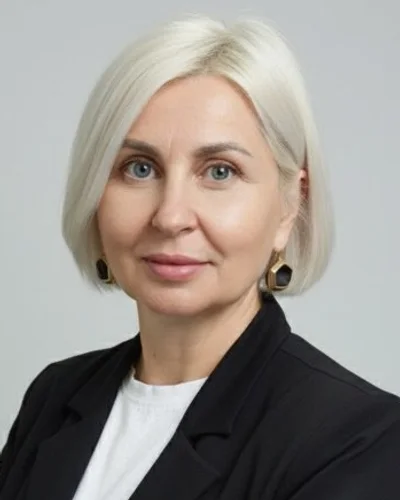
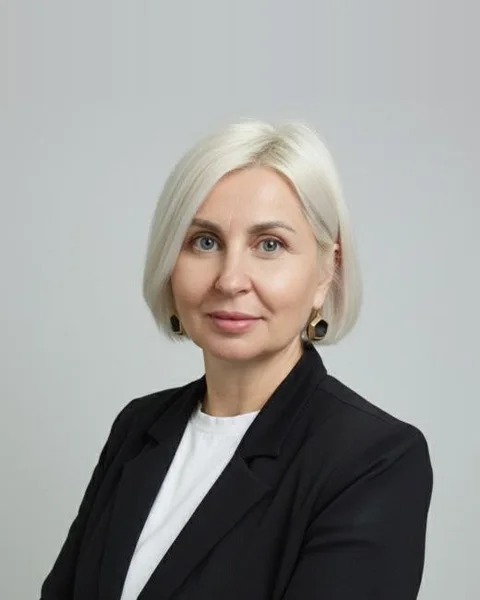
v33: кадры для модалки считаются от рамки лица (детектор OpenCV), окно попапа и фото крупнее

diff --git a/src33/components/Program5.jsx b/src33/components/Program5.jsx
@@ -42,7 +42,7 @@ function LectureModal({ lecture, onClose }) {
         role="dialog"
         aria-modal="true"
         aria-label={lecture.title}
-        className="panel relative w-full max-w-2xl max-h-[85vh] overflow-y-auto p-7 md:p-10"
+        className="panel relative w-full max-w-3xl max-h-[85vh] overflow-y-auto p-7 md:p-10"
         initial={{ opacity: 0, y: 32, scale: 0.96 }}
         animate={{ opacity: 1, y: 0, scale: 1 }}
         exit={{ opacity: 0, y: 24, scale: 0.97 }}
@@ -72,10 +72,10 @@ function LectureModal({ lecture, onClose }) {
               src={`../speakers/${SPEAKER_PHOTOS[lecture.speaker]}-p.webp`}
               alt={lecture.speaker}
               loading="lazy"
-              className="w-28 sm:w-32 aspect-[4/5] rounded-2xl object-cover flex-shrink-0 border border-[#27251f]/10"
+              className="w-36 sm:w-44 aspect-[4/5] rounded-2xl object-cover flex-shrink-0 border border-[#27251f]/10"
             />
           ) : (
-            <div className="w-28 sm:w-32 aspect-[4/5] rounded-2xl bg-gradient-to-br from-[#d9bfa8]/60 to-[#623b2a]/25 flex items-center justify-center flex-shrink-0 border border-[#27251f]/10">
+            <div className="w-36 sm:w-44 aspect-[4/5] rounded-2xl bg-gradient-to-br from-[#d9bfa8]/60 to-[#623b2a]/25 flex items-center justify-center flex-shrink-0 border border-[#27251f]/10">
               <svg width="44" height="44" viewBox="0 0 24 24" fill="none" stroke="#623b2a" strokeWidth="1.5" aria-hidden="true">
                 <circle cx="12" cy="8" r="4" />
                 <path d="M4 21c0-4 3.6-6.5 8-6.5s8 2.5 8 6.5" />

diff --git a/scripts/face-preview.py b/scripts/face-preview.py
@@ -1,0 +1,51 @@
+"""Контрольный лист: рамки лиц из face-boxes.py, нарисованные на фото.
+
+Зелёный прямоугольник — что нашёл Haar; синяя линия — расчётный верх причёски,
+красная — расчётный подбородок (по коэффициентам ниже). Служит для калибровки.
+Запуск: uv run --with "opencv-python-headless<5" --with numpy python scripts/face-preview.py
+"""
+import pathlib
+
+import cv2
+import numpy as np
+
+SRC = pathlib.Path(r"C:\Users\vlad\Documents\nashedelo23\Фото спикеров")
+OUT = pathlib.Path(r"C:\Users\vlad\Documents\nashedelo23\shots-mobile\faces-preview.jpg")
+
+# из face-boxes.py
+BOXES = {
+    "Нагорная.jpg": (395, 503, 324),
+    "Шаповалова Л.В..jpg": (282, 202, 324),
+    "Жабин В.В..jpg": (308, 463, 555),
+    "Гаврилов.jpg": (461, 506, 215),
+    "Папета.jpg": (319, 177, 133),
+    "Гертель.jpg": (577, 272, 280),
+    "Амельченко.jpg": (225, 87, 197),
+    "Беляева.jpg": (432, 156, 287),
+}
+HAIR_K = 0.55   # верх причёски выше рамки на HAIR_K * размер рамки
+CHIN_K = 1.00   # подбородок = верх рамки + CHIN_K * размер рамки
+
+CELL_W, CELL_H = 380, 480
+cells = []
+
+for name, (fx, fy, fs) in BOXES.items():
+    img = cv2.imdecode(np.fromfile(str(SRC / name), dtype="uint8"), cv2.IMREAD_COLOR)
+    hair = int(fy - HAIR_K * fs)
+    chin = int(fy + CHIN_K * fs)
+    cv2.rectangle(img, (fx, fy), (fx + fs, fy + fs), (0, 220, 0), max(2, img.shape[1] // 300))
+    cv2.line(img, (0, hair), (img.shape[1], hair), (255, 120, 0), max(2, img.shape[1] // 300))
+    cv2.line(img, (0, chin), (img.shape[1], chin), (0, 0, 255), max(2, img.shape[1] // 300))
+    cv2.line(img, (fx + fs // 2, 0), (fx + fs // 2, img.shape[0]), (0, 255, 255), max(2, img.shape[1] // 340))
+
+    scale = min(CELL_W / img.shape[1], CELL_H / img.shape[0])
+    small = cv2.resize(img, (int(img.shape[1] * scale), int(img.shape[0] * scale)))
+    canvas = np.full((CELL_H, CELL_W, 3), 240, dtype="uint8")
+    oy, ox = (CELL_H - small.shape[0]) // 2, (CELL_W - small.shape[1]) // 2
+    canvas[oy:oy + small.shape[0], ox:ox + small.shape[1]] = small
+    cv2.putText(canvas, name.split(".")[0], (6, CELL_H - 8), cv2.FONT_HERSHEY_SIMPLEX, 0.5, (20, 20, 20), 1)
+    cells.append(canvas)
+
+rows = [np.hstack(cells[i:i + 4]) for i in range(0, len(cells), 4)]
+cv2.imwrite(str(OUT), np.vstack(rows), [cv2.IMWRITE_JPEG_QUALITY, 88])
+print("OK:", OUT)

diff --git a/scripts/face-boxes.py b/scripts/face-boxes.py
@@ -1,0 +1,55 @@
+"""Объективные координаты лиц на исходных фото спикеров.
+
+Haar-каскад OpenCV даёт рамку лица (лоб→подбородок, без волос) — по ней
+считаются кадры для карточек и попапа программы, чтобы не мерить на глаз.
+Запуск: uv run --with "opencv-python-headless<5" --with numpy python scripts/face-boxes.py
+"""
+import json
+import pathlib
+
+import cv2
+import numpy as np
+
+SRC = pathlib.Path(r"C:\Users\vlad\Documents\nashedelo23\Фото спикеров")
+FILES = {
+    "Нагорная.jpg": "nagornaya",
+    "Шаповалова Л.В..jpg": "shapovalova",
+    "Жабин В.В..jpg": "zhabin",
+    "Гаврилов.jpg": "gavrilov",
+    "Папета.jpg": "papeta",
+    "Гертель.jpg": "gertel",
+    "Амельченко.jpg": "amelchenko",
+    "Беляева.jpg": "belyaeva",
+}
+
+cascades = [
+    cv2.CascadeClassifier(cv2.data.haarcascades + n)
+    for n in ("haarcascade_frontalface_alt2.xml", "haarcascade_frontalface_default.xml")
+]
+out = {}
+
+for name, slug in FILES.items():
+    # кириллица в пути: cv2.imread её не берёт, читаем через numpy
+    buf = np.fromfile(str(SRC / name), dtype="uint8")
+    img = cv2.imdecode(buf, cv2.IMREAD_COLOR)
+    gray = cv2.equalizeHist(cv2.cvtColor(img, cv2.COLOR_BGR2GRAY))
+    h, w = gray.shape
+
+    faces = []
+    for c in cascades:
+        faces = c.detectMultiScale(gray, scaleFactor=1.03, minNeighbors=5,
+                                   minSize=(int(w * 0.05), int(w * 0.05)))
+        if len(faces):
+            break
+    if not len(faces):
+        out[slug] = {"imgW": int(w), "imgH": int(h), "error": "no face"}
+        continue
+
+    fx, fy, fw, fh = max(faces, key=lambda f: f[2] * f[3])
+    out[slug] = {
+        "imgW": int(w), "imgH": int(h),
+        "x": int(fx), "y": int(fy), "w": int(fw), "h": int(fh),
+        "cx": int(fx + fw / 2), "found": int(len(faces)),
+    }
+
+print(json.dumps(out, ensure_ascii=False))
